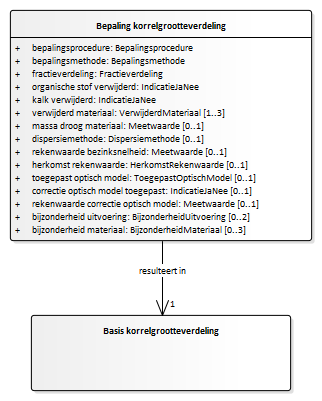
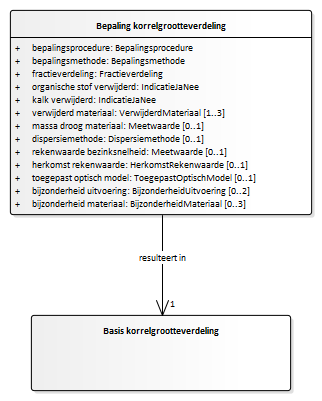
Conceptualmodel-GeologischbooronderzoekBHR-G-0.99-3-20200518-20200720-072954

Changed region(s): [[0.0311, 0.4489, 0.9627, 0.6883], [0.9627, 0.5387, 0.9938, 0.5985]]

diff --git a/data/BHR-G-cat.msword.html b/data/BHR-G-cat.msword.html
@@ -15,7 +15,7 @@
    <body>
       <p>Conceptual model/Geologisch booronderzoek (BHR-G)/20200518</p>
       <p>Imvertor: 1.61.0</p>
-      <p>Model release: Conceptualmodel-GeologischbooronderzoekBHR-G-0.99-3-20200518-20200720-032741</p>
+      <p>Model release: Conceptualmodel-GeologischbooronderzoekBHR-G-0.99-3-20200518-20200720-072954</p>
       <hr>
       <section>
          <h1>Artikel 1 Definitie van registratieobject, entiteiten en attributen</h1>
@@ -71,7 +71,7 @@
                </div>
                <div class="imageinfo overview"><img src="Images/EAID_A794A5F1_C52E_4a52_952F_D4257486C44D.png" usemap="#imagemap-EAID_A794A5F1_C52E_4a52_952F_D4257486C44D" alt="Diagram "><map name="imagemap-EAID_A794A5F1_C52E_4a52_952F_D4257486C44D"><area shape="rect" alt="Verdeling fijne fractie grindarme minerale grond" coords="287,1400,524,1475" href="#graph_EAID_6EE3DDDC_4909_4509_91BD_DDE3546FD55F"><area shape="rect" alt="Verdeling fijne fractie grindrijke minerale grond" coords="12,1400,249,1475" href="#graph_EAID_816F849B_EE57_4a63_B163_A7708B5EEF58"><area shape="rect" alt="Verdeling fijne fractie organische grond" coords="272,1529,509,1604" href="#graph_EAID_267BF639_C106_452f_A5DD_15FE467A3CF1"><area shape="rect" alt="Verdeling fijne fractie schelprijke grond" coords="29,1529,266,1604" href="#graph_EAID_93CE8907_FF55_4bd2_9E36_DA5B6F968E38"><area shape="rect" alt="Grindbestanddeel" coords="915,1184,1128,1245" href="#graph_EAID_4A0EAA22_B98A_40ab_99E0_04698F4C08BA"><area shape="rect" alt="Post-sedimentaire discontinuïteit" coords="811,207,1043,282" href="#graph_EAID_D8B61D97_C848_4530_A9DB_F214501ADF53"><area shape="rect" alt="Niet beschreven interval" coords="811,109,1043,184" href="#graph_EAID_D1B8B5BC_2593_4287_9911_E6AFEA261BCB"><area shape="rect" alt="Bijzonder bestanddeel" coords="845,757,1128,818" href="#graph_EAID_4F0594D5_D60B_4108_9A38_37406AA2A82C"><area shape="rect" alt="Archeologisch bestanddeel" coords="9,420,293,482" href="#graph_EAID_B5980F7E_4643_4554_8989_9286F031438D"><area shape="rect" alt="Veenbestanddeel" coords="915,1543,1128,1604" href="#graph_EAID_5F3BDA14_511E_4a71_B495_D18EA8D07526"><area shape="rect" alt="Dierlijk fossiel" coords="12,1083,225,1145" href="#graph_EAID_831DEC3E_C820_4cdd_8716_2130C32598A1"><area shape="rect" alt="Veenfractie" coords="577,1555,860,1604" href="#graph_EAID_D6519331_24B7_47db_96A6_0FDEF29D8598"><area shape="rect" alt="Insluitsel" coords="12,927,225,988" href="#graph_EAID_E9F6F0A4_C882_499a_9B69_8BFFC789091A"><area shape="rect" alt="Brokje" coords="845,981,1128,1056" href="#graph_EAID_E8E4BF08_C14B_422f_B5CC_EA90D8C691A8"><area shape="rect" alt="Sedimentlens" coords="12,1005,225,1066" href="#graph_EAID_96EA69F6_8C0A_495d_94DF_0C167447E3B2"><area shape="rect" alt="Schelpenbestanddeel" coords="915,1479,1128,1540" href="#graph_EAID_C6FB2597_5E69_4628_8DF5_A873F0BAC191"><area shape="rect" alt="Zandbestanddeel" coords="915,1326,1128,1387" href="#graph_EAID_A1C6C395_67C4_415f_B2B5_6D6AE296AAF1"><area shape="rect" alt="Schelpenfractie" coords="577,1400,860,1540" href="#graph_EAID_D94CB687_314F_497b_A97E_690C3FD45DCB"><area shape="rect" alt="Zandfractie" coords="577,1260,860,1387" href="#graph_EAID_F59FA036_0FB6_4102_B548_E3739D0F5337"><area shape="rect" alt="Grindfractie" coords="577,1079,860,1245" href="#graph_EAID_D638B481_2AB7_4cfa_8561_70F7790464B9"><area shape="rect" alt="Afwijkend laagje" coords="845,836,1128,950" href="#graph_EAID_71614E69_2DE8_47f6_BA28_42B91F39124E"><area shape="rect" alt="Laagje" coords="631,634,872,716" href="#graph_EAID_4EEEBF52_4872_4f50_A22C_1C42EAC70AEA"><area shape="rect" alt="Vlek" coords="12,849,225,910" href="#graph_EAID_5684B88C_B0A6_4f15_80B9_F014EC274105"><area shape="rect" alt="Munsellkleur" coords="12,757,225,832" href="#graph_EAID_0FA2E403_645C_4be0_86DA_2B5302628A29"><area shape="rect" alt="Fractieverdeling" coords="130,1250,416,1350" href="#graph_EAID_6986D2AE_EA69_4af6_812A_7C4CA90CCBF2"><area shape="rect" alt="Laagdeel" coords="153,647,394,703" href="#graph_EAID_DD0E1CDE_BC0D_4800_B824_DC905C0B6959"><area shape="rect" alt="Laag" coords="323,319,705,576" href="#graph_EAID_F9410F95_1E35_49a6_8BB8_D0E18D712643"><area shape="rect" alt="Boorprofiel" coords="323,150,705,277" href="#graph_EAID_2BA8A9AC_A3C1_452a_983C_282727BF9036"><area shape="rect" alt="Boormonsterbeschrijving" coords="323,10,705,98" href="#graph_EAID_D89A831D_A496_41a9_AE6D_57069276AAC1"><area shape="rect" alt="Grond" coords="323,791,705,1035" href="#graph_EAID_9A1B738F_E114_4c70_BDAF_7EABE244ADA0"></map><p><b>Domeinmodel geologisch booronderzoek - Boormonsterbeschrijving</b></p>
                </div>
-               <div class="imageinfo overview"><img src="Images/EAID_BD093ADD_C997_4218_A851_4A8FA1B4D2AE.png" usemap="#imagemap-EAID_BD093ADD_C997_4218_A851_4A8FA1B4D2AE" alt="Diagram "><map name="imagemap-EAID_BD093ADD_C997_4218_A851_4A8FA1B4D2AE"><area shape="rect" alt="Afwijkend materiaal" coords="975,375,1201,463" href="#graph_EAID_371124A2_C98D_46e8_A77D_40245957A7DF"><area shape="rect" alt="Standaardverdeling fractie groter2mm" coords="1090,837,1275,977" href="#graph_EAID_DEDDD48B_845A_4a4b_B5F8_66754B3716E5"><area shape="rect" alt="Minimale verdeling fractie 63umtot2mm" coords="874,837,1058,977" href="#graph_EAID_37C18EF1_F6E5_4100_81F0_5B2455DC7B56"><area shape="rect" alt="Controleverdeling fractie kleiner63um" coords="226,837,410,964" href="#graph_EAID_A81260B1_7C9C_49b5_859A_A69571BECD4E"><area shape="rect" alt="Controleverdeling fractie 63umtot2mm" coords="658,837,842,1108" href="#graph_EAID_8EFCF3B0_F02E_4bf7_B06A_D093E01FEE7D"><area shape="rect" alt="Standaardverdeling fractie 63umtot2mm" coords="442,837,626,1159" href="#graph_EAID_6B18685C_A68D_4478_B8B0_6AB2253CEC5B"><area shape="rect" alt="Standaardverdeling fractie kleiner63um" coords="10,837,194,1016" href="#graph_EAID_FD36FD9B_0CD9_4ccf_B1D0_36FE69D35396"><area shape="rect" alt="Basis korrelgrootteverdeling" coords="460,634,776,709" href="#graph_EAID_1557892B_72DA_44a1_828D_9A05217296C3"><area shape="rect" alt="Bepaling korrelgrootteverdeling" coords="461,328,777,559" href="#graph_EAID_AE9D7D12_956B_4b02_A367_4D01567C0FCA"><area shape="rect" alt="Onderzocht materiaal" coords="901,101,1275,306" href="#graph_EAID_F2AA089D_C13C_460b_9304_2860F47C68D5"><area shape="rect" alt="Onderzocht interval" coords="437,133,801,273" href="#graph_EAID_02F2AE73_C650_477c_AF76_2F01C5807B26"><area shape="rect" alt="Boormonsteranalyse" coords="504,10,732,85" href="#graph_EAID_D7019E53_2AEA_424d_B23C_BFE117C25244"></map><p><b>Domeinmodel geologisch booronderzoek - Boormonsteranalyse deel 1</b></p>
+               <div class="imageinfo overview"><img src="Images/EAID_BD093ADD_C997_4218_A851_4A8FA1B4D2AE.png" usemap="#imagemap-EAID_BD093ADD_C997_4218_A851_4A8FA1B4D2AE" alt="Diagram "><map name="imagemap-EAID_BD093ADD_C997_4218_A851_4A8FA1B4D2AE"><area shape="rect" alt="Afwijkend materiaal" coords="975,375,1201,463" href="#graph_EAID_371124A2_C98D_46e8_A77D_40245957A7DF"><area shape="rect" alt="Standaardverdeling fractie groter2mm" coords="1090,837,1275,977" href="#graph_EAID_DEDDD48B_845A_4a4b_B5F8_66754B3716E5"><area shape="rect" alt="Minimale verdeling fractie 63umtot2mm" coords="874,837,1058,977" href="#graph_EAID_37C18EF1_F6E5_4100_81F0_5B2455DC7B56"><area shape="rect" alt="Controleverdeling fractie kleiner63um" coords="226,837,410,964" href="#graph_EAID_A81260B1_7C9C_49b5_859A_A69571BECD4E"><area shape="rect" alt="Controleverdeling fractie 63umtot2mm" coords="658,837,842,1108" href="#graph_EAID_8EFCF3B0_F02E_4bf7_B06A_D093E01FEE7D"><area shape="rect" alt="Standaardverdeling fractie 63umtot2mm" coords="442,837,626,1159" href="#graph_EAID_6B18685C_A68D_4478_B8B0_6AB2253CEC5B"><area shape="rect" alt="Standaardverdeling fractie kleiner63um" coords="10,837,194,1016" href="#graph_EAID_FD36FD9B_0CD9_4ccf_B1D0_36FE69D35396"><area shape="rect" alt="Basis korrelgrootteverdeling" coords="460,634,776,709" href="#graph_EAID_1557892B_72DA_44a1_828D_9A05217296C3"><area shape="rect" alt="Bepaling korrelgrootteverdeling" coords="461,363,777,568" href="#graph_EAID_AE9D7D12_956B_4b02_A367_4D01567C0FCA"><area shape="rect" alt="Onderzocht materiaal" coords="901,101,1275,306" href="#graph_EAID_F2AA089D_C13C_460b_9304_2860F47C68D5"><area shape="rect" alt="Onderzocht interval" coords="437,133,801,273" href="#graph_EAID_02F2AE73_C650_477c_AF76_2F01C5807B26"><area shape="rect" alt="Boormonsteranalyse" coords="504,10,732,85" href="#graph_EAID_D7019E53_2AEA_424d_B23C_BFE117C25244"></map><p><b>Domeinmodel geologisch booronderzoek - Boormonsteranalyse deel 1</b></p>
                </div>
                <div class="imageinfo overview"><img src="Images/EAID_787269C4_EE5C_4d30_BF1E_81A0EA5319F2.png" usemap="#imagemap-EAID_787269C4_EE5C_4d30_BF1E_81A0EA5319F2" alt="Diagram &#xA;"><map name="imagemap-EAID_787269C4_EE5C_4d30_BF1E_81A0EA5319F2"><area shape="rect" alt="Onderzocht materiaal" coords="10,125,276,174" href="#graph_EAID_F2AA089D_C13C_460b_9304_2860F47C68D5"><area shape="rect" alt="Bepaling zwavelgehalte" coords="727,308,1008,422" href="#graph_EAID_A95F2969_E74B_498a_9103_D9A0526A32A2"><area shape="rect" alt="Bepaling organisch koolstofgehalte" coords="727,125,1008,239" href="#graph_EAID_6A46413B_5AEB_4ef1_922E_DA9DFF45194D"><area shape="rect" alt="Gloeiverlies kalkgehalte" coords="33,522,253,584" href="#graph_EAID_95218F81_283F_4e32_83F8_57A7BE2A7D8E"><area shape="rect" alt="Bepaling kalkgehalte" coords="10,308,276,422" href="#graph_EAID_02490446_1BDE_4d67_ABBB_0DAD15F5EB54"><area shape="rect" alt="Gloeiverlies organischestofgehalte" coords="404,523,624,585" href="#graph_EAID_C2BD94B3_DFDC_4838_858F_BE3FEF16EF1B"><area shape="rect" alt="Bepaling organischestofgehalte" coords="363,308,665,461" href="#graph_EAID_BA7B1A13_3139_4ffa_AFB3_7B84734B7012"><area shape="rect" alt="Onderzocht interval" coords="381,125,647,174" href="#graph_EAID_02F2AE73_C650_477c_AF76_2F01C5807B26"><area shape="rect" alt="Boormonsteranalyse" coords="381,10,647,59" href="#graph_EAID_D7019E53_2AEA_424d_B23C_BFE117C25244"></map><p><b>Domeinmodel geologisch booronderzoek - Boormonsteranalyse deel 2</b></p>
                </div>
@@ -15262,7 +15262,7 @@
                      </section>
                </section><a class="anchor" id="graph_EAID_AE9D7D12_956B_4b02_A367_4D01567C0FCA"></a><a class="anchor" id="global_class_Model_Bepalingkorrelgrootteverdeling"></a><section id="global_class_Model_Bepalingkorrelgrootteverdeling">
                   <h3>   Bepaling korrelgrootteverdeling</h3>
-                  <div class="imageinfo "><img src="Images/EAID_25CA73DE_1A63_4084_A882_7DF70F06F910.png" usemap="#imagemap-EAID_25CA73DE_1A63_4084_A882_7DF70F06F910" alt="Diagram "><map name="imagemap-EAID_25CA73DE_1A63_4084_A882_7DF70F06F910"><area shape="rect" alt="Basis korrelgrootteverdeling" coords="31,315,291,391" href="#graph_EAID_1557892B_72DA_44a1_828D_9A05217296C3"><area shape="rect" alt="Bepaling korrelgrootteverdeling" coords="10,10,312,241" href="#graph_EAID_AE9D7D12_956B_4b02_A367_4D01567C0FCA"></map><p><b></b></p>
+                  <div class="imageinfo "><img src="Images/EAID_25CA73DE_1A63_4084_A882_7DF70F06F910.png" usemap="#imagemap-EAID_25CA73DE_1A63_4084_A882_7DF70F06F910" alt="Diagram "><map name="imagemap-EAID_25CA73DE_1A63_4084_A882_7DF70F06F910"><area shape="rect" alt="Basis korrelgrootteverdeling" coords="31,315,291,391" href="#graph_EAID_1557892B_72DA_44a1_828D_9A05217296C3"><area shape="rect" alt="Bepaling korrelgrootteverdeling" coords="10,10,312,215" href="#graph_EAID_AE9D7D12_956B_4b02_A367_4D01567C0FCA"></map><p><b></b></p>
                   </div>
                   <table style="width: 100%;">
                      <colgroup style="width: 30%;"></colgroup>
@@ -15958,124 +15958,6 @@
                            </tr>
                         </tbody>
                      </table>
-                     </section><a class="anchor" id="detail_attribute_Model_Bepalingkorrelgrootteverdeling_correctieoptischmodeltoegepast"></a><section id="detail_attribute_Model_Bepalingkorrelgrootteverdeling_correctieoptischmodeltoegepast">
-                     <h4>  correctie optisch model toegepast</h4>
-                     
-                     <table style="width: 100%;">
-                        <colgroup style="width: 30%;"></colgroup>
-                        <colgroup style="width: 70%;"></colgroup>
-                        <tbody>
-                           <tr>
-                              <th>Type gegeven</th>
-                              <td>Attribuut van Bepaling korrelgrootteverdeling</td>
-                           </tr>
-                           <tr>
-                              <th>Definitie</th>
-                              <td>
-                                 
-                                 <p>De aanduiding die aangeeft of de omgerekende resultaten zijn gecorrigeerd naar 100
-                                    procent. </p>
-                                 </td>
-                           </tr>
-                           <tr>
-                              <th>Juridische status</th>
-                              <td>Authentiek</td>
-                           </tr>
-                           <tr>
-                              <th>Kardinaliteit</th>
-                              <td>0..1</td>
-                           </tr>
-                           <tr>
-                              <th>Domein</th>
-                              <td></td>
-                           </tr>
-                           <tr>
-                              <th>&nbsp;&nbsp;Naam</th>
-                              <td>IndicatieJaNee</td>
-                           </tr>
-                           <tr>
-                              <th>&nbsp;&nbsp;Type</th>
-                              <td>Waardelijst niet uitbreidbaar</td>
-                           </tr>
-                           <tr>
-                              <th>Regels</th>
-                              <td>
-                                 
-                                 <p>Het attribuut moet aanwezig zijn wanneer de waarde van het attribuut <em>bepalingsmethode</em> gelijk is aan <em>droogZevenLaser</em>.<br clear="none">
-                                    Het attribuut mag niet aanwezig zijn in alle andere gevallen.</p>
-                                 </td>
-                           </tr>
-                           <tr>
-                              <th>Toelichting</th>
-                              <td>
-                                 
-                                 <p>Bij laserdiffractie is het gemeten lichtpatroon met behulp van een optisch model omgerekend
-                                    naar de korrelgrootteverdeling. Wanneer de korrelgrootteverdeling niet exact op 100%
-                                    uitkomt wordt een correctie toegepast.</p>
-                                 </td>
-                           </tr>
-                        </tbody>
-                     </table>
-                     </section><a class="anchor" id="detail_attribute_Model_Bepalingkorrelgrootteverdeling_rekenwaardecorrectieoptischmodel"></a><section id="detail_attribute_Model_Bepalingkorrelgrootteverdeling_rekenwaardecorrectieoptischmodel">
-                     <h4>  rekenwaarde correctie optisch model</h4>
-                     
-                     <table style="width: 100%;">
-                        <colgroup style="width: 30%;"></colgroup>
-                        <colgroup style="width: 70%;"></colgroup>
-                        <tbody>
-                           <tr>
-                              <th>Type gegeven</th>
-                              <td>Attribuut van Bepaling korrelgrootteverdeling</td>
-                           </tr>
-                           <tr>
-                              <th>Definitie</th>
-                              <td>
-                                 
-                                 <p>Het percentage waarvoor is gecorrigeerd. </p>
-                                 </td>
-                           </tr>
-                           <tr>
-                              <th>Juridische status</th>
-                              <td>Authentiek</td>
-                           </tr>
-                           <tr>
-                              <th>Kardinaliteit</th>
-                              <td>0..1</td>
-                           </tr>
-                           <tr>
-                              <th>Domein</th>
-                              <td></td>
-                           </tr>
-                           <tr>
-                              <th>&nbsp;&nbsp;Naam</th>
-                              <td>Meetwaarde 
-                                 1.1</td>
-                           </tr>
-                           <tr>
-                              <th>&nbsp;&nbsp;Type</th>
-                              <td>Getal</td>
-                           </tr>
-                           <tr>
-                              <th>&nbsp;&nbsp;Eenheid</th>
-                              <td>% (procent)</td>
-                           </tr>
-                           <tr>
-                              <th>Regels</th>
-                              <td>
-                                 
-                                 <p>Het attribuut moet aanwezig zijn wanneer de waarde van het attribuut <em>correctie toegepast</em> gelijk is aan <em>ja</em>.<br clear="none">
-                                    Het attribuut mag niet aanwezig zijn in alle andere gevallen.</p>
-                                 </td>
-                           </tr>
-                           <tr>
-                              <th>Toelichting</th>
-                              <td>
-                                 
-                                 <p>In de meeste gevallen ligt de waarde tussen de -0,2 en 0,2 %.</p>
-                                 </td>
-                           </tr>
-                        </tbody>
-                     </table>
                      </section><a class="anchor" id="detail_attribute_Model_Bepalingkorrelgrootteverdeling_bijzonderheiduitvoering"></a><section id="detail_attribute_Model_Bepalingkorrelgrootteverdeling_bijzonderheiduitvoering">
                      <h4>  bijzonderheid uitvoering</h4>
                      
@@ -16208,6 +16090,14 @@
                            <td>
                               
                               <p>De som van alle fracties moet gelijk zijn aan 100.</p>
+                              </td>
+                        </tr>
+                        <tr>
+                           <th>Toelichting</th>
+                           <td>
+                              
+                              <p>De manier waarop de verdeling van de fracties exact op 100 % komt, is vastgelegd in
+                                 de analyseprocedure praktijkrichtlijn Geologische Dienst Nederland. </p>
                               </td>
                         </tr>
                      </tbody>
